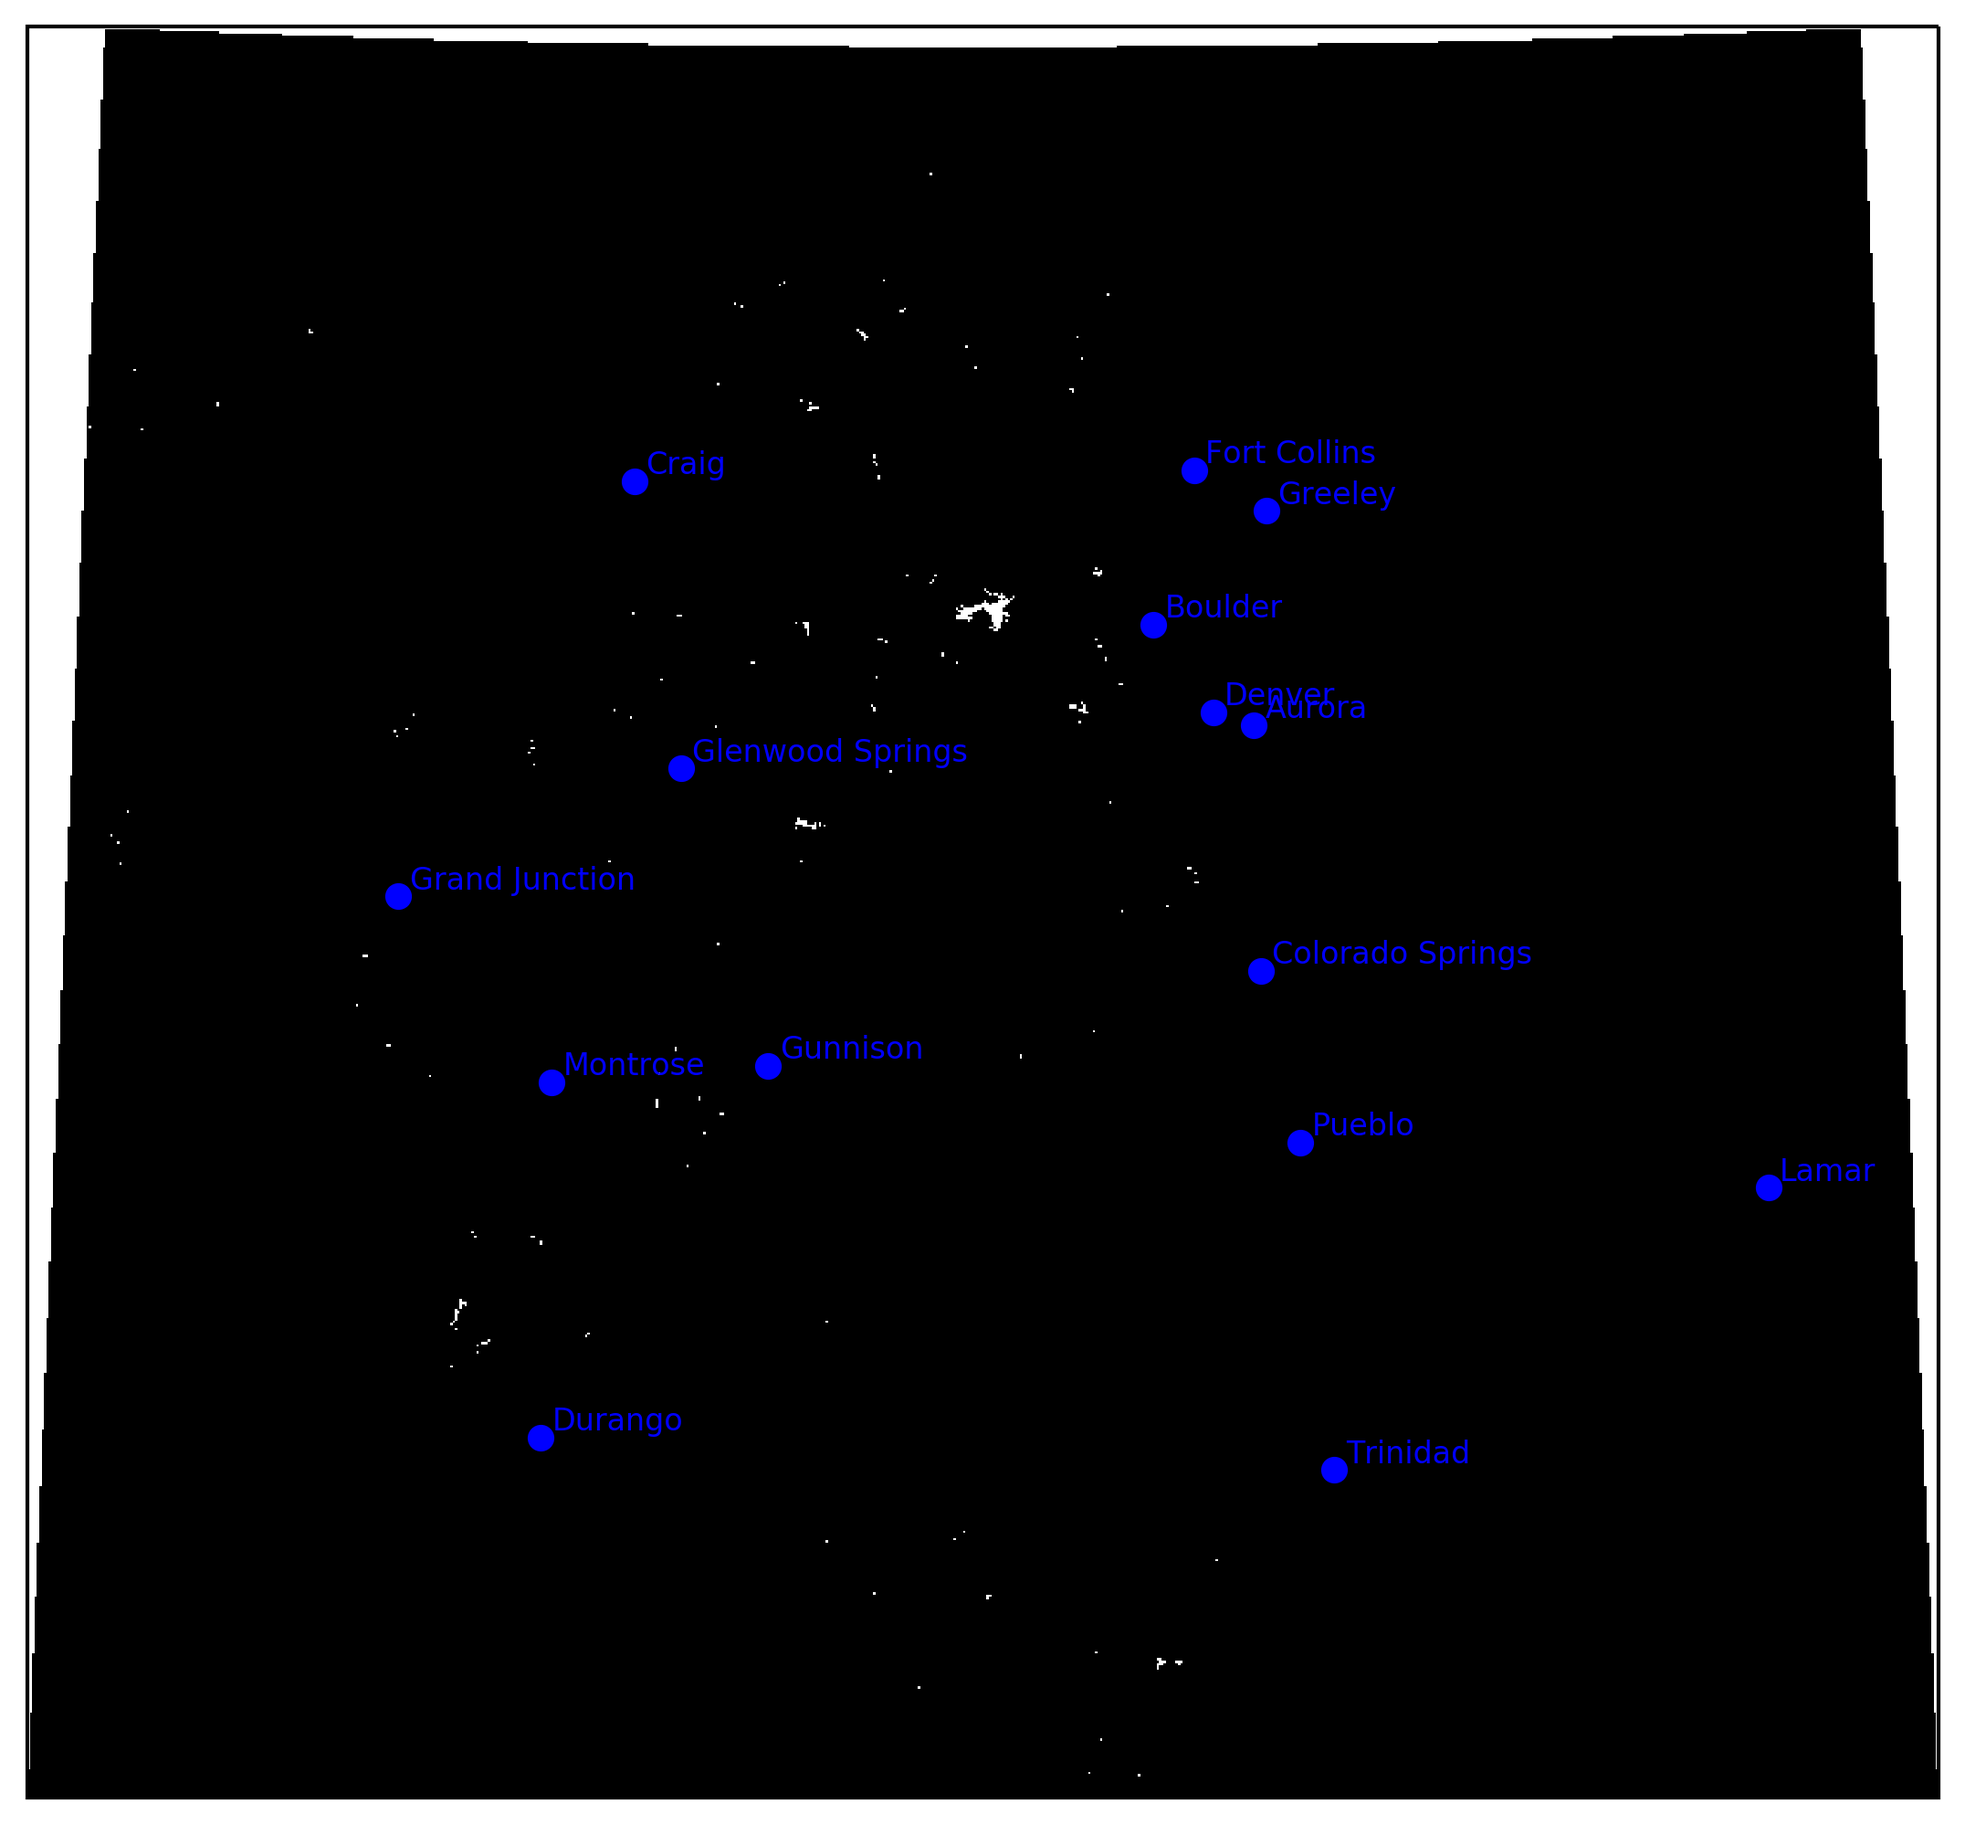
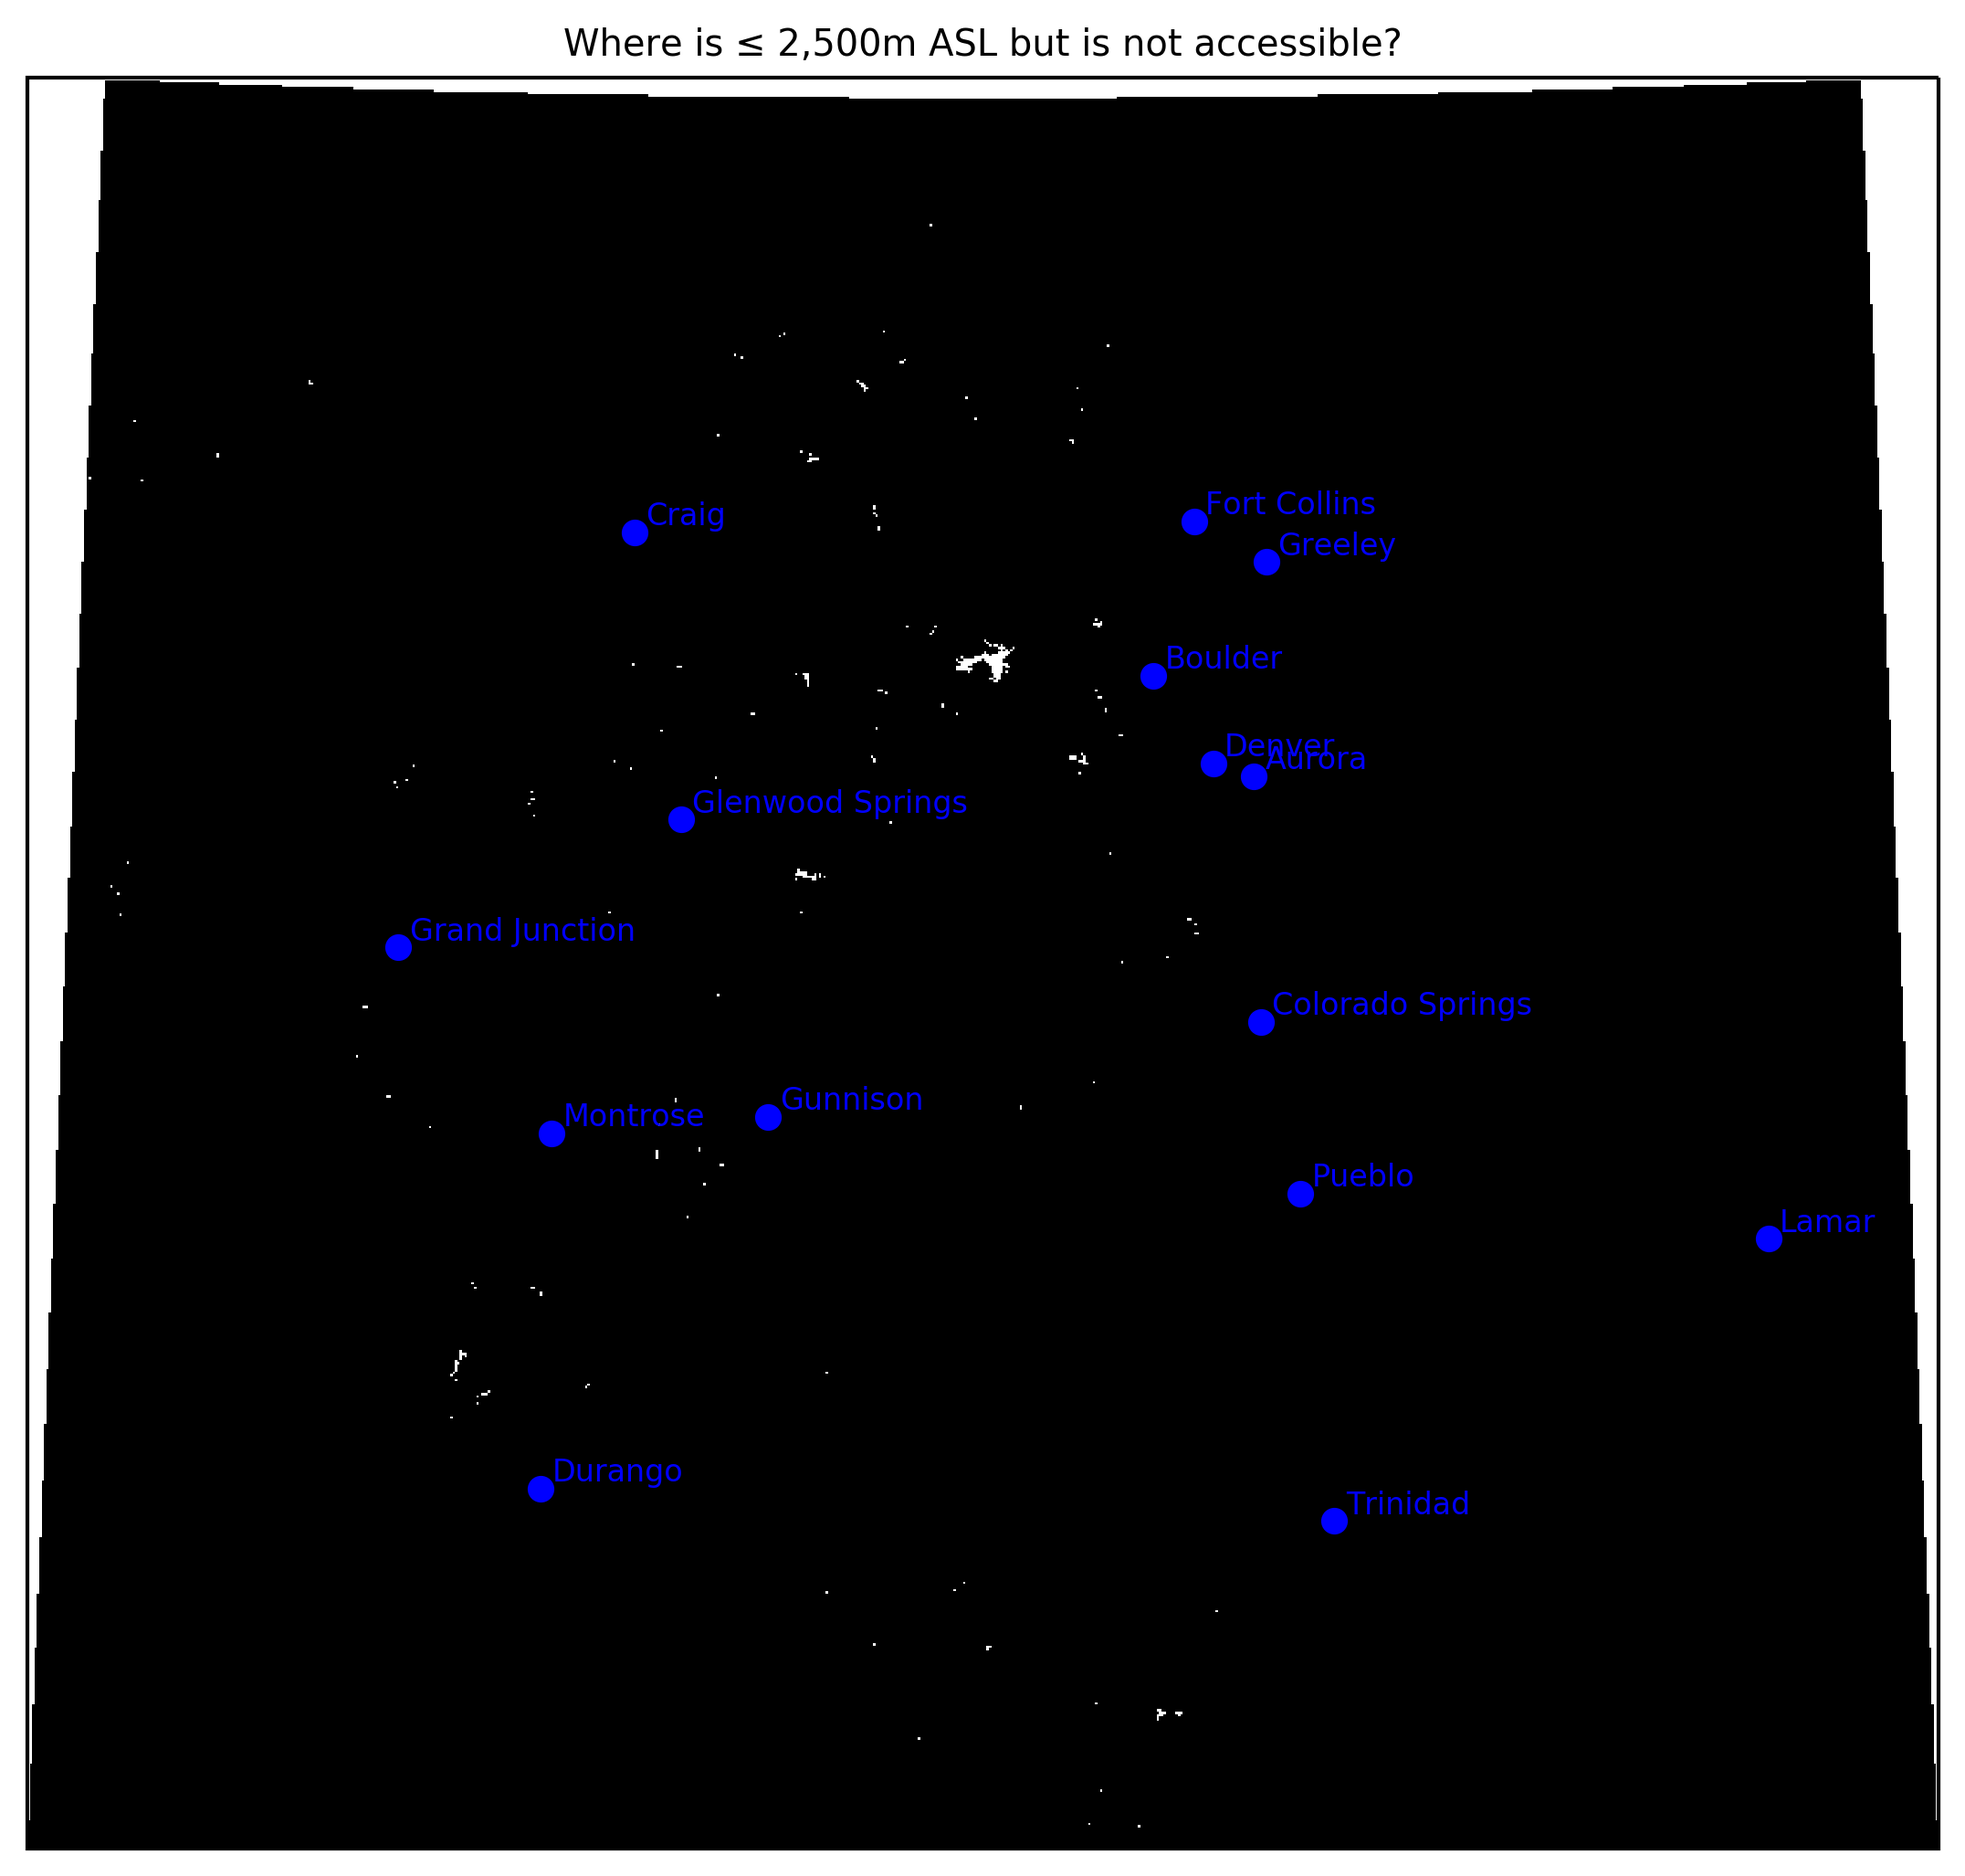
added title

diff --git a/makePlots.py b/makePlots.py
@@ -66,6 +66,7 @@ if not os.path.exists(pfile):
         )
     )
     ax.set_extent(extCL)
+    ax.set_title("Where is ≤ 2,500m ASL but is not accessible?")
 
     # Add background image ...
     pyguymer3.add_map_background(ax, name = "diff", resolution = "diff", extent = extCL)
@@ -95,6 +96,7 @@ if not os.path.exists(pfile):
         )
     )
     ax.set_extent(extCO)
+    ax.set_title("Where is ≤ 2,500m ASL but is not accessible?")
 
     # Add background image ...
     pyguymer3.add_map_background(ax, name = "diff", resolution = "diff", extent = extCO)
@@ -155,6 +157,7 @@ if not os.path.exists(pfile):
         )
     )
     ax.set_extent(extUS)
+    ax.set_title("Where is ≤ 2,500m ASL but is not accessible?")
 
     # Add background image ...
     pyguymer3.add_map_background(ax, name = "diff", resolution = "diff", extent = extUS)
@@ -184,6 +187,7 @@ if not os.path.exists(pfile):
         )
     )
     ax.set_extent(extCL)
+    ax.set_title("Where is ≤ 2,500m ASL but is not accessible?")
 
     # Add background image ...
     pyguymer3.add_map_background(ax, name = "flags", resolution = "flags", extent = extCL)
@@ -213,6 +217,7 @@ if not os.path.exists(pfile):
         )
     )
     ax.set_extent(extCO)
+    ax.set_title("Where is ≤ 2,500m ASL but is not accessible?")
 
     # Add background image ...
     pyguymer3.add_map_background(ax, name = "flags", resolution = "flags", extent = extCO)
@@ -273,6 +278,7 @@ if not os.path.exists(pfile):
         )
     )
     ax.set_extent(extUS)
+    ax.set_title("Where is ≤ 2,500m ASL but is not accessible?")
 
     # Add background image ...
     pyguymer3.add_map_background(ax, name = "flags", resolution = "flags", extent = extUS)
